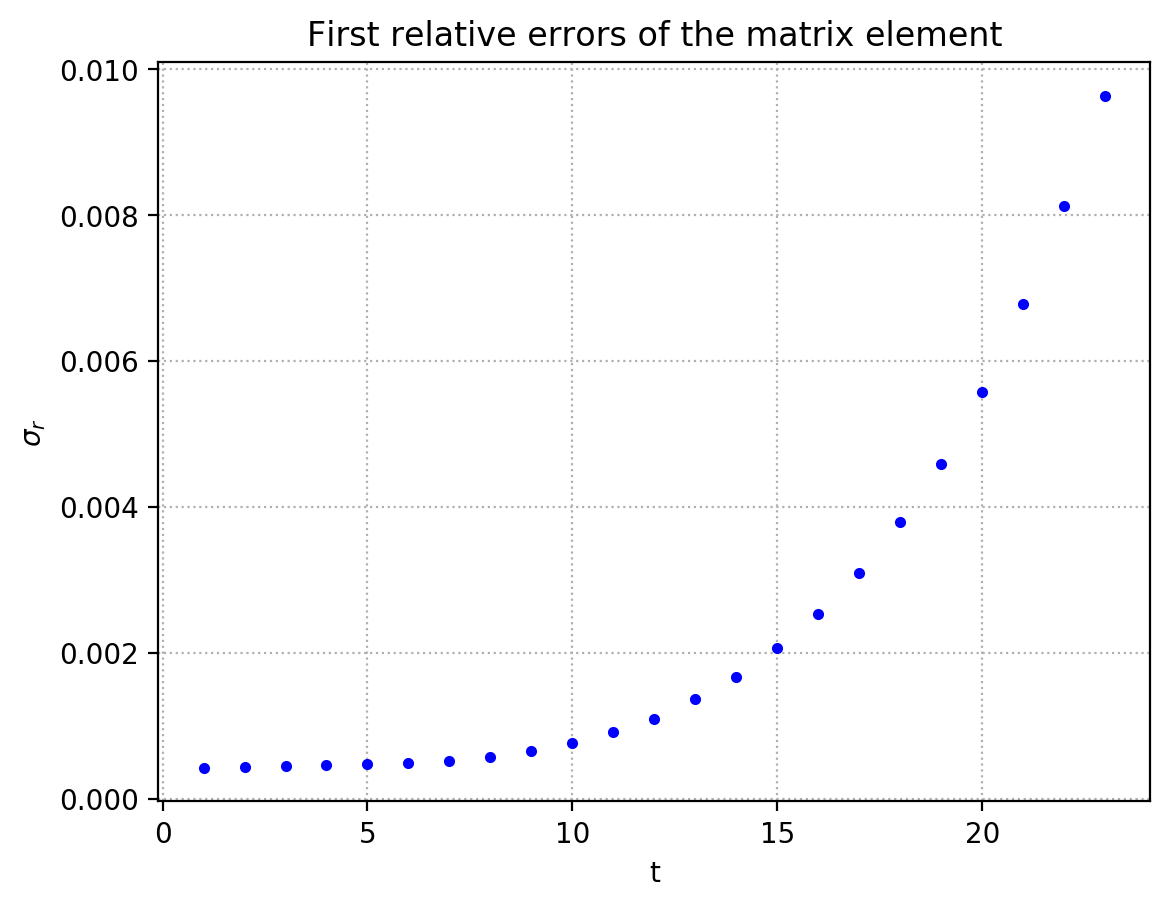
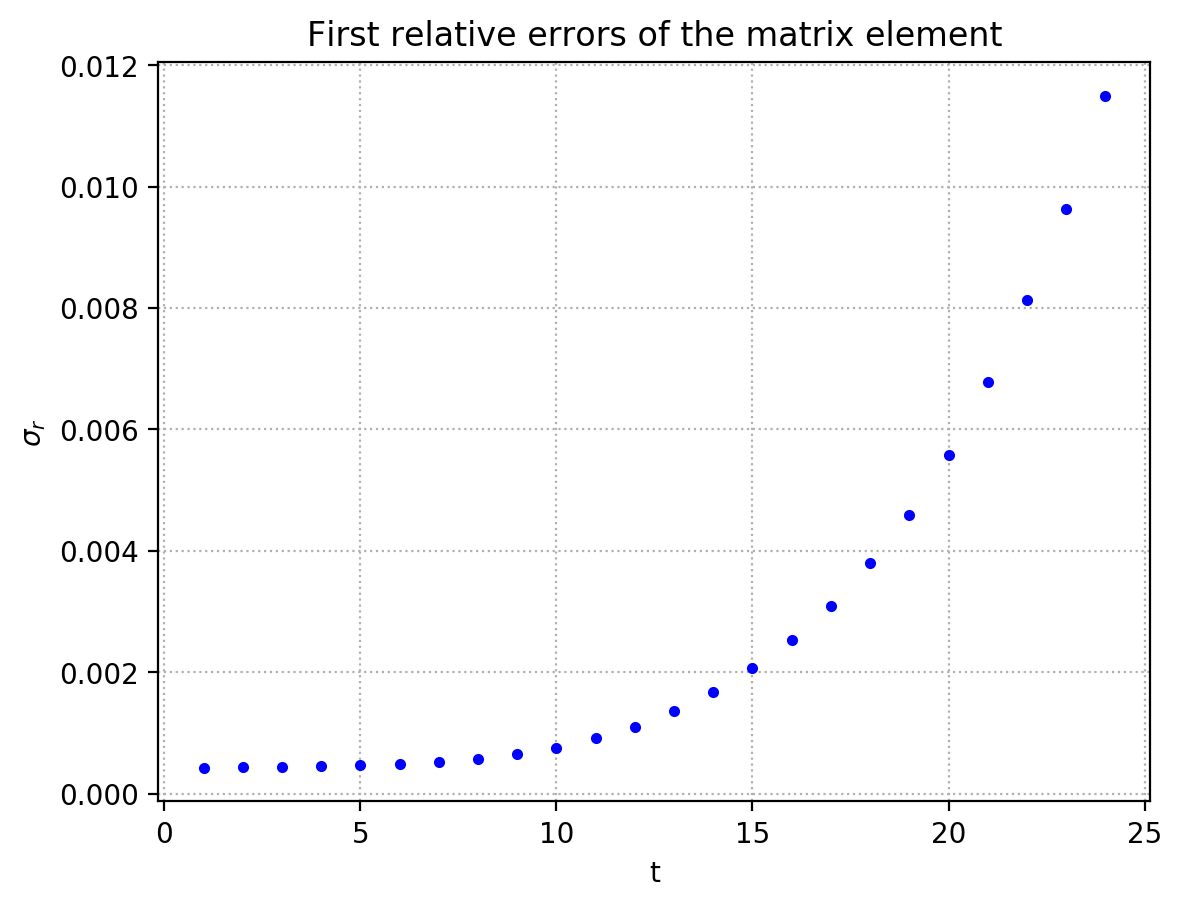
Commit 31/08

diff --git a/fit/single_fit.py b/fit/single_fit.py
@@ -9,8 +9,8 @@ import json
 import sys
 
 if len(sys.argv) == 1:
-    print('ERROR: Number of arguments not correct\nPlease compile as\n\tpython3 single_fit.py <file_energies> <file_mel>')
-
+    file_energies = '../results/deltaE.dat'
+    file_mel = '../results/matrix_el.dat'
 else:
     file_energies = sys.argv[1]
     file_mel = sys.argv[2]
@@ -29,11 +29,11 @@ results["a"] = 64/N
 
 # I consider only the values with a relative error lower than a threshold
 counter = 0
-for j in range(len(dE)):
-    if(err[j]/dE[j] < 0.008):
+for j in range(int(len(dE)/2)):
+    if(err[j]/dE[j] < 0.00012):
         counter += 1
-# The values are symmetric, so the final result must be divided by 2
-counter = int(counter/2)
+    if(err[j+1]/dE[j+1] > 0.00012 or err[j+1] == -nan):
+        break
 
 # Plotting the energy differences with their errors
 fig1 = plt.figure()
@@ -52,24 +52,17 @@ if N == 512:
     plt.xlabel("t")
     plt.ylabel(r"$\sigma_r$")
     plt.grid(linestyle=':')
-    plt.plot(t[:counter+1], err[:counter+1]/dE[:counter+1],
+    plt.plot(t[1:counter+1], err[1:counter+1]/dE[1:counter+1],
              ls='', marker='.', c='blue')
 
-# Calculating the mean of the energies and its error
-if counter != 0:
-    if counter < 5:
-        weight = list(map(lambda x: 1/(x*x), err[1:counter+1]))
-        results["energy"]["value"] = sum(dE[1:counter+1]*weight) / sum(weight)
-        results["energy"]["error"] = np.sqrt(1/sum(weight))
-    else:
-        results["energy"]["value"] = sum(dE[1:counter+1]) / counter
-        mean2 = sum(dE[1:counter+1]*dE[1:counter+1]) / counter
-        results["energy"]["error"] = np.sqrt(
-            mean2 - results["energy"]["value"]**2)
+if counter > 1:
+    results["energy"]["value"] = np.sum(dE[1:counter+1])/counter
+    mean2 = np.sum(dE[1:counter+1]*dE[1:counter+1])/counter
+    results["energy"]["error"] = np.sqrt(
+        (mean2 - results["energy"]["value"]*results["energy"]["value"])/counter)
 else:
     results["energy"]["value"] = dE[1]
     results["energy"]["error"] = err[1]
-
 
 # MATRIX ELEMENTS
 with open(file_mel, 'r') as f:
@@ -79,11 +72,11 @@ t, mel, err = np.genfromtxt(file_mel,
 
 # I consider only the values with a relative error lower than a threshold
 counter = 0
-for j in range(len(mel)):
-    if(err[j]/mel[j] < 0.01):
+for j in range(int(len(mel)/2)):
+    if(err[j]/mel[j] < 0.0125):
         counter += 1
-# The values are symmetric, so the final result must be divided by 2
-counter = int(counter/2)
+    if(err[j+1]/mel[j+1] > 0.0125 or err[j+1] == -nan):
+        break
 
 # Plotting the matrix elements and their errors
 fig2 = plt.figure()
@@ -102,21 +95,16 @@ if N == 512:
     plt.xlabel("t")
     plt.ylabel(r"$\sigma_r$")
     plt.grid(linestyle=':')
-    plt.plot(t[:counter+1], err[:counter+1]/mel[:counter+1],
+    plt.plot(t[1:counter+1], err[1:counter+1]/mel[1:counter+1],
              ls='', marker='.', c='blue')
 
+# Computing mean value and error
+if counter > 1:
+    results["mel"]["value"] = np.sum(mel[1:counter+1])/counter
+    mean2 = np.sum(mel[1:counter+1]*mel[1:counter+1])/counter
+    results["mel"]["error"] = np.sqrt(
+        (mean2 - results["mel"]["value"]*results["mel"]["value"])/counter)
 
-# Calculating the mean of the matrix elements and its error
-if counter != 0:
-    if counter < 5:
-        weight = list(map(lambda x: 1/(x*x), err[1:counter+1]))
-        results["mel"]["value"] = sum(mel[1:counter+1]*weight) / sum(weight)
-        results["mel"]["error"] = np.sqrt(1/sum(weight))
-    else:
-        results["mel"]["value"] = sum(mel[1:counter+1]) / counter
-        mean2 = sum(mel[1:counter+1]*mel[1:counter+1]) / counter
-        results["mel"]["error"] = np.sqrt(
-            mean2 - results["mel"]["value"]**2)
 else:
     results["mel"]["value"] = mel[1]
     results["mel"]["error"] = err[1]

diff --git a/fit/total_fit.py b/fit/total_fit.py
@@ -18,14 +18,15 @@ mel = np.array([data[i]["mel"]["value"] for i in range(len(data))])
 error_mel = np.array([data[i]["mel"]["error"] for i in range(len(data))])
 x = np.linspace(min(a), max(a), 100)
 
+
 # ENERGIES
 fig1 = plt.figure(1)
 plt.title('Mean of the energy step')
 plt.errorbar(a, E_mean/a, yerr=error_E/a, ls='', linewidth=0.5, marker='.', markersize=1,
              elinewidth=0.5, capsize=2.5)
-best, covar = curve_fit(f.quadratic, a, E_mean/a,
+best, covar = curve_fit(f.quadratic, a*a, E_mean/a,
                         p0=(1., -1/24, 3/640), sigma=error_E/a)
-plt.plot(x, f.quadratic(x, *best), ls='-', c='r')
+plt.plot(x, f.quadratic(x*x, *best), ls='-', c='r')
 
 d = len(a) - len(best)  # Degree of freedom of the fit
 
@@ -34,7 +35,7 @@ plt.ylabel(r'$\langle \Delta \bar{E} \rangle / W$')
 plt.grid(linestyle=':')
 
 chi = f.red_chi_sq(
-    E_mean/a, f.quadratic(a, *best), error_E/a, dof=d)
+    E_mean/a, f.quadratic(a*a, *best), error_E/a, dof=d)
 
 print("ENERGIES:")
 for i in range(len(a)):
@@ -54,17 +55,17 @@ fig2 = plt.figure(2)
 plt.title('Mean of the matrix element')
 plt.errorbar(a, mel, yerr=error_mel, ls='', marker='.', markersize=1,
              elinewidth=0.5, capsize=2.5, ecolor='b')
-best, covar = curve_fit(f.quadratic, a, mel,
+best, covar = curve_fit(f.quadratic, a*a, mel,
                         p0=(1/np.sqrt(2), -1*np.sqrt(2)/32, 5*np.sqrt(2)/1024), sigma=error_mel)
-plt.plot(x, f.quadratic(x, *best), ls='-', c='r')
+plt.plot(x, f.quadratic(x*x, *best), ls='-', c='r')
 
-d = len(a) - len(best)  # Degree of freedom of the fit
+d = len(a*a) - len(best)  # Degree of freedom of the fit
 
 plt.xlabel('a')
 plt.ylabel('Matrix element')
 plt.grid(linestyle=':')
 
-chi = f.red_chi_sq(mel, f.quadratic(a, *best), error_mel, dof=d)
+chi = f.red_chi_sq(mel, f.quadratic(a*a, *best), error_mel, dof=d)
 
 print("MATRIX ELEMENTS:")
 for i in range(len(a)):

diff --git a/modules/extras/utility.c b/modules/extras/utility.c
@@ -49,7 +49,7 @@ void single_metropolis(void)
           r2 = (double)rf[j + N];
           alpha = 2. * delta * (r1 - 0.5);
           dS = delta_S(j, alpha);
-          /*The new configuration is accepted if dS < 0 or, if dS < 0, exp(-dS) > r2.
+          /*The new configuration is accepted if dS < 0 or, if dS > 0, exp(-dS) > r2.
           The condition with r2 is then enough*/
           if (exp(-1 * dS) > r2)
           {

diff --git a/fit/functions.py b/fit/functions.py
@@ -29,7 +29,7 @@ Function for a linear fit
 
 def quadratic(x, *par):
     '''
-Function for a linear fit
+Function for a quadratic fit
     '''
     return par[0] + par[1]*x + par[2]*x*x
 

diff --git a/main/jackknife.c b/main/jackknife.c
@@ -80,6 +80,7 @@ int main(void)
 	{
 		for (t = 0; t < N; ++t)
 		{
+
 			c[i][t] = c_mean[t] - (c[i][t] - c_mean[t]) / (Nconf - 1);
 		}
 	}
